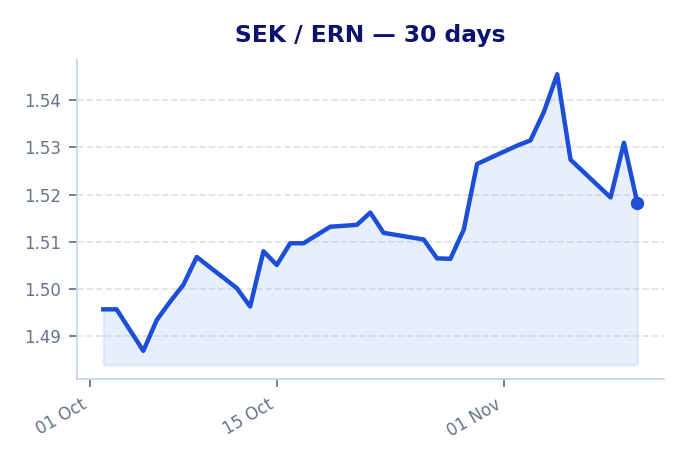
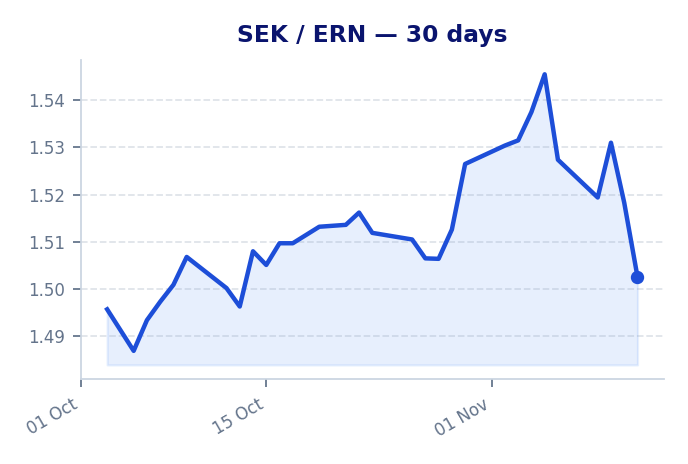
Add files via upload

diff --git a/index.html b/index.html
@@ -168,7 +168,8 @@ body {
     color: #ffffff;
 }
 
-.home-page .corridor-nav a:first-child,
+/* Only the corridor page you are actually on is highlighted. The homepage is
+   not a corridor, so none of the three tabs is active there. */
 .corridor-nav a.active-corridor {
     background: var(--brand-blue);
     color: #ffffff;
@@ -938,22 +939,22 @@ tr:hover {
 
             <div class="summary-item">
                 <div class="summary-label">SEK</div>
-                <div class="summary-value">1.5183</div>
+                <div class="summary-value">1.5026</div>
             </div>
 
             <div class="summary-item">
                 <div class="summary-label">NOK</div>
-                <div class="summary-value">1.5784</div>
+                <div class="summary-value">1.5671</div>
             </div>
 
             <div class="summary-item">
                 <div class="summary-label">DKK</div>
-                <div class="summary-value">2.2389</div>
+                <div class="summary-value">2.2232</div>
             </div>
 
             </div>
             <div class="mid-market-meta">
-                <div><span style="font-weight:600" data-i18n="last-updated">Last Updated:</span> 2026-11-11 07:13</div>
+                <div><span style="font-weight:600" data-i18n="last-updated">Last Updated:</span> 2026-11-12 07:09</div>
                 <div style="font-size:0.8rem" data-i18n="mid-market-note">Official mid-market rates collected daily. Actual transfer payout rates shown below.</div>
             </div>
         </div>
@@ -973,11 +974,11 @@ tr:hover {
             <div class="insight-boxes">
                 <div class="bestbox">
                     <span class="icon">🏆</span> 
-                    <span data-i18n="top-pick">Top Pick: <b>Ria</b> delivers <b>15 000 ERN</b></span>
+                    <span data-i18n="top-pick">Top Pick: <b>Ria</b> delivers <b>14 800 ERN</b></span>
                 </div>
                 <div class="gainbox">
                     <span class="icon">💡</span> 
-                    <span data-i18n="smart-move">Smart Move: You get <b>+471 ERN</b> more with <b>Ria</b> vs <b>Juba Express</b></span>
+                    <span data-i18n="smart-move">Smart Move: You get <b>+426 ERN</b> more with <b>Ria</b> vs <b>Juba Express</b></span>
                 </div>
             </div>
             
@@ -1000,11 +1001,11 @@ tr:hover {
 <td class="left">
     <div class="company-name">Ria</div>
 </td>
-<td class="right font-numeric">1.5000</td>
+<td class="right font-numeric">1.4800</td>
 <td class="right font-numeric">0,00</td>
-<td class="right nowrap font-numeric highlight-ern">15 000</td>
+<td class="right nowrap font-numeric highlight-ern">14 800</td>
 <td class="right nowrap font-numeric">-</td>
-<td class="right font-numeric markup-good">1.21%</td>
+<td class="right font-numeric markup-good">1.50%</td>
 <td class="right font-numeric hide-mobile"><span class="badge best-badge">Best</span></td>
 </tr>
 
@@ -1012,11 +1013,11 @@ tr:hover {
 <td class="left">
     <div class="company-name">Transfer Galaxy</div>
 </td>
-<td class="right font-numeric">1.4854</td>
+<td class="right font-numeric">1.4691</td>
 <td class="right font-numeric">0,00</td>
-<td class="right nowrap font-numeric highlight-ern">14 854</td>
-<td class="right nowrap font-numeric"><span class="loss-text">-146 ERN</span></td>
-<td class="right font-numeric markup-cell">2.17%</td>
+<td class="right nowrap font-numeric highlight-ern">14 691</td>
+<td class="right nowrap font-numeric"><span class="loss-text">-109 ERN</span></td>
+<td class="right font-numeric markup-cell">2.23%</td>
 <td class="right font-numeric hide-mobile"><span class="badge rank-badge">#2</span></td>
 </tr>
 
@@ -1024,11 +1025,11 @@ tr:hover {
 <td class="left">
     <div class="company-name">Western Union</div>
 </td>
-<td class="right font-numeric">1.4788</td>
+<td class="right font-numeric">1.4650</td>
 <td class="right font-numeric">0,00</td>
-<td class="right nowrap font-numeric highlight-ern">14 787</td>
-<td class="right nowrap font-numeric"><span class="loss-text">-212 ERN</span></td>
-<td class="right font-numeric markup-cell">2.60%</td>
+<td class="right nowrap font-numeric highlight-ern">14 650</td>
+<td class="right nowrap font-numeric"><span class="loss-text">-150 ERN</span></td>
+<td class="right font-numeric markup-cell">2.50%</td>
 <td class="right font-numeric hide-mobile"><span class="badge rank-badge">#3</span></td>
 </tr>
 
@@ -1036,11 +1037,11 @@ tr:hover {
 <td class="left">
     <div class="company-name">Remitly</div>
 </td>
-<td class="right font-numeric">1.4785</td>
+<td class="right font-numeric">1.4624</td>
 <td class="right font-numeric">0,00</td>
-<td class="right nowrap font-numeric highlight-ern">14 785</td>
-<td class="right nowrap font-numeric"><span class="loss-text">-215 ERN</span></td>
-<td class="right font-numeric markup-cell">2.62%</td>
+<td class="right nowrap font-numeric highlight-ern">14 624</td>
+<td class="right nowrap font-numeric"><span class="loss-text">-176 ERN</span></td>
+<td class="right font-numeric markup-cell">2.68%</td>
 <td class="right font-numeric hide-mobile"><span class="badge rank-badge">#4</span></td>
 </tr>
 
@@ -1048,11 +1049,11 @@ tr:hover {
 <td class="left">
     <div class="company-name">Dahabshiil</div>
 </td>
-<td class="right font-numeric">1.4623</td>
+<td class="right font-numeric">1.4475</td>
 <td class="right font-numeric">0,00</td>
-<td class="right nowrap font-numeric highlight-ern">14 623</td>
-<td class="right nowrap font-numeric"><span class="loss-text">-377 ERN</span></td>
-<td class="right font-numeric markup-cell">3.69%</td>
+<td class="right nowrap font-numeric highlight-ern">14 475</td>
+<td class="right nowrap font-numeric"><span class="loss-text">-325 ERN</span></td>
+<td class="right font-numeric markup-cell">3.67%</td>
 <td class="right font-numeric hide-mobile"><span class="badge rank-badge">#5</span></td>
 </tr>
 
@@ -1060,11 +1061,11 @@ tr:hover {
 <td class="left">
     <div class="company-name">Juba Express</div>
 </td>
-<td class="right font-numeric">1.4529</td>
+<td class="right font-numeric">1.4374</td>
 <td class="right font-numeric">0,00</td>
-<td class="right nowrap font-numeric highlight-ern">14 529</td>
-<td class="right nowrap font-numeric"><span class="loss-text">-471 ERN</span></td>
-<td class="right font-numeric markup-cell">4.31%</td>
+<td class="right nowrap font-numeric highlight-ern">14 374</td>
+<td class="right nowrap font-numeric"><span class="loss-text">-426 ERN</span></td>
+<td class="right font-numeric markup-cell">4.34%</td>
 <td class="right font-numeric hide-mobile"><span class="badge rank-badge">#6</span></td>
 </tr>
 
@@ -1086,11 +1087,11 @@ tr:hover {
             <div class="insight-boxes">
                 <div class="bestbox">
                     <span class="icon">🏆</span> 
-                    <span data-i18n="top-pick">Top Pick: <b>Transfer Galaxy</b> delivers <b>15 416 ERN</b></span>
+                    <span data-i18n="top-pick">Top Pick: <b>Transfer Galaxy</b> delivers <b>15 321 ERN</b></span>
                 </div>
                 <div class="gainbox">
                     <span class="icon">💡</span> 
-                    <span data-i18n="smart-move">Smart Move: You get <b>+690 ERN</b> more with <b>Transfer Galaxy</b> vs <b>Dahabshiil</b></span>
+                    <span data-i18n="smart-move">Smart Move: You get <b>+695 ERN</b> more with <b>Transfer Galaxy</b> vs <b>Dahabshiil</b></span>
                 </div>
             </div>
             
@@ -1113,11 +1114,11 @@ tr:hover {
 <td class="left">
     <div class="company-name">Transfer Galaxy</div>
 </td>
-<td class="right font-numeric">1.5416</td>
+<td class="right font-numeric">1.5321</td>
 <td class="right font-numeric">0,00</td>
-<td class="right nowrap font-numeric highlight-ern">15 416</td>
+<td class="right nowrap font-numeric highlight-ern">15 321</td>
 <td class="right nowrap font-numeric">-</td>
-<td class="right font-numeric markup-cell">2.33%</td>
+<td class="right font-numeric markup-cell">2.23%</td>
 <td class="right font-numeric hide-mobile"><span class="badge best-badge">Best</span></td>
 </tr>
 
@@ -1125,11 +1126,11 @@ tr:hover {
 <td class="left">
     <div class="company-name">Ria Money Transfer</div>
 </td>
-<td class="right font-numeric">1.5400</td>
+<td class="right font-numeric">1.5300</td>
 <td class="right font-numeric">0,00</td>
-<td class="right nowrap font-numeric highlight-ern">15 400</td>
-<td class="right nowrap font-numeric"><span class="loss-text">-16 ERN</span></td>
-<td class="right font-numeric markup-cell">2.43%</td>
+<td class="right nowrap font-numeric highlight-ern">15 300</td>
+<td class="right nowrap font-numeric"><span class="loss-text">-21 ERN</span></td>
+<td class="right font-numeric markup-cell">2.37%</td>
 <td class="right font-numeric hide-mobile"><span class="badge rank-badge">#2</span></td>
 </tr>
 
@@ -1137,11 +1138,11 @@ tr:hover {
 <td class="left">
     <div class="company-name">Remitly</div>
 </td>
-<td class="right font-numeric">1.5313</td>
+<td class="right font-numeric">1.5208</td>
 <td class="right font-numeric">0,00</td>
-<td class="right nowrap font-numeric highlight-ern">15 313</td>
-<td class="right nowrap font-numeric"><span class="loss-text">-102 ERN</span></td>
-<td class="right font-numeric markup-cell">2.98%</td>
+<td class="right nowrap font-numeric highlight-ern">15 208</td>
+<td class="right nowrap font-numeric"><span class="loss-text">-113 ERN</span></td>
+<td class="right font-numeric markup-cell">2.95%</td>
 <td class="right font-numeric hide-mobile"><span class="badge rank-badge">#3</span></td>
 </tr>
 
@@ -1149,10 +1150,10 @@ tr:hover {
 <td class="left">
     <div class="company-name">Juba Express</div>
 </td>
-<td class="right font-numeric">1.5097</td>
+<td class="right font-numeric">1.4990</td>
 <td class="right font-numeric">0,00</td>
-<td class="right nowrap font-numeric highlight-ern">15 097</td>
-<td class="right nowrap font-numeric"><span class="loss-text">-319 ERN</span></td>
+<td class="right nowrap font-numeric highlight-ern">14 990</td>
+<td class="right nowrap font-numeric"><span class="loss-text">-330 ERN</span></td>
 <td class="right font-numeric markup-cell">4.35%</td>
 <td class="right font-numeric hide-mobile"><span class="badge rank-badge">#4</span></td>
 </tr>
@@ -1161,11 +1162,11 @@ tr:hover {
 <td class="left">
     <div class="company-name">Hidmona Money Transfer</div>
 </td>
-<td class="right font-numeric">1.4987</td>
+<td class="right font-numeric">1.4901</td>
 <td class="right font-numeric">0,00</td>
-<td class="right nowrap font-numeric highlight-ern">14 987</td>
-<td class="right nowrap font-numeric"><span class="loss-text">-429 ERN</span></td>
-<td class="right font-numeric markup-cell">5.05%</td>
+<td class="right nowrap font-numeric highlight-ern">14 901</td>
+<td class="right nowrap font-numeric"><span class="loss-text">-420 ERN</span></td>
+<td class="right font-numeric markup-cell">4.91%</td>
 <td class="right font-numeric hide-mobile"><span class="badge rank-badge">#5</span></td>
 </tr>
 
@@ -1173,11 +1174,11 @@ tr:hover {
 <td class="left">
     <div class="company-name">Dahabshiil</div>
 </td>
-<td class="right font-numeric">1.4726</td>
+<td class="right font-numeric">1.4626</td>
 <td class="right font-numeric">0,00</td>
-<td class="right nowrap font-numeric highlight-ern">14 726</td>
-<td class="right nowrap font-numeric"><span class="loss-text">-690 ERN</span></td>
-<td class="right font-numeric markup-cell">6.70%</td>
+<td class="right nowrap font-numeric highlight-ern">14 625</td>
+<td class="right nowrap font-numeric"><span class="loss-text">-695 ERN</span></td>
+<td class="right font-numeric markup-cell">6.67%</td>
 <td class="right font-numeric hide-mobile"><span class="badge rank-badge">#6</span></td>
 </tr>
 
@@ -1199,11 +1200,11 @@ tr:hover {
             <div class="insight-boxes">
                 <div class="bestbox">
                     <span class="icon">🏆</span> 
-                    <span data-i18n="top-pick">Top Pick: <b>Western Union</b> delivers <b>22 404 ERN</b></span>
+                    <span data-i18n="top-pick">Top Pick: <b>Western Union</b> delivers <b>22 241 ERN</b></span>
                 </div>
                 <div class="gainbox">
                     <span class="icon">💡</span> 
-                    <span data-i18n="smart-move">Smart Move: You get <b>+987 ERN</b> more with <b>Western Union</b> vs <b>Juba Express</b></span>
+                    <span data-i18n="smart-move">Smart Move: You get <b>+975 ERN</b> more with <b>Western Union</b> vs <b>Juba Express</b></span>
                 </div>
             </div>
             
@@ -1226,11 +1227,11 @@ tr:hover {
 <td class="left">
     <div class="company-name">Western Union</div>
 </td>
-<td class="right font-numeric">2.2404</td>
+<td class="right font-numeric">2.2241</td>
 <td class="right font-numeric">0,00</td>
-<td class="right nowrap font-numeric highlight-ern">22 404</td>
+<td class="right nowrap font-numeric highlight-ern">22 241</td>
 <td class="right nowrap font-numeric">-</td>
-<td class="right font-numeric markup-good">-0.07%</td>
+<td class="right font-numeric markup-good">-0.04%</td>
 <td class="right font-numeric hide-mobile"><span class="badge best-badge">Best</span></td>
 </tr>
 
@@ -1238,11 +1239,11 @@ tr:hover {
 <td class="left">
     <div class="company-name">Ria Money Transfer</div>
 </td>
-<td class="right font-numeric">2.2100</td>
+<td class="right font-numeric">2.2000</td>
 <td class="right font-numeric">0,00</td>
-<td class="right nowrap font-numeric highlight-ern">22 100</td>
-<td class="right nowrap font-numeric"><span class="loss-text">-304 ERN</span></td>
-<td class="right font-numeric markup-good">1.29%</td>
+<td class="right nowrap font-numeric highlight-ern">22 000</td>
+<td class="right nowrap font-numeric"><span class="loss-text">-241 ERN</span></td>
+<td class="right font-numeric markup-good">1.04%</td>
 <td class="right font-numeric hide-mobile"><span class="badge rank-badge">#2</span></td>
 </tr>
 
@@ -1250,11 +1251,11 @@ tr:hover {
 <td class="left">
     <div class="company-name">Hidmona Money Transfer</div>
 </td>
-<td class="right font-numeric">2.1976</td>
+<td class="right font-numeric">2.1828</td>
 <td class="right font-numeric">0,00</td>
-<td class="right nowrap font-numeric highlight-ern">21 976</td>
-<td class="right nowrap font-numeric"><span class="loss-text">-428 ERN</span></td>
-<td class="right font-numeric markup-good">1.84%</td>
+<td class="right nowrap font-numeric highlight-ern">21 828</td>
+<td class="right nowrap font-numeric"><span class="loss-text">-413 ERN</span></td>
+<td class="right font-numeric markup-good">1.82%</td>
 <td class="right font-numeric hide-mobile"><span class="badge rank-badge">#3</span></td>
 </tr>
 
@@ -1262,11 +1263,11 @@ tr:hover {
 <td class="left">
     <div class="company-name">Transfer Galaxy</div>
 </td>
-<td class="right font-numeric">2.1899</td>
+<td class="right font-numeric">2.1730</td>
 <td class="right font-numeric">0,00</td>
-<td class="right nowrap font-numeric highlight-ern">21 899</td>
-<td class="right nowrap font-numeric"><span class="loss-text">-505 ERN</span></td>
-<td class="right font-numeric markup-cell">2.19%</td>
+<td class="right nowrap font-numeric highlight-ern">21 730</td>
+<td class="right nowrap font-numeric"><span class="loss-text">-511 ERN</span></td>
+<td class="right font-numeric markup-cell">2.26%</td>
 <td class="right font-numeric hide-mobile"><span class="badge rank-badge">#4</span></td>
 </tr>
 
@@ -1274,11 +1275,11 @@ tr:hover {
 <td class="left">
     <div class="company-name">Remitly</div>
 </td>
-<td class="right font-numeric">2.1888</td>
+<td class="right font-numeric">2.1724</td>
 <td class="right font-numeric">0,00</td>
-<td class="right nowrap font-numeric highlight-ern">21 888</td>
-<td class="right nowrap font-numeric"><span class="loss-text">-516 ERN</span></td>
-<td class="right font-numeric markup-cell">2.24%</td>
+<td class="right nowrap font-numeric highlight-ern">21 724</td>
+<td class="right nowrap font-numeric"><span class="loss-text">-517 ERN</span></td>
+<td class="right font-numeric markup-cell">2.28%</td>
 <td class="right font-numeric hide-mobile"><span class="badge rank-badge">#5</span></td>
 </tr>
 
@@ -1286,11 +1287,11 @@ tr:hover {
 <td class="left">
     <div class="company-name">Juba Express</div>
 </td>
-<td class="right font-numeric">2.1417</td>
+<td class="right font-numeric">2.1266</td>
 <td class="right font-numeric">0,00</td>
-<td class="right nowrap font-numeric highlight-ern">21 417</td>
-<td class="right nowrap font-numeric"><span class="loss-text">-987 ERN</span></td>
-<td class="right font-numeric markup-cell">4.34%</td>
+<td class="right nowrap font-numeric highlight-ern">21 266</td>
+<td class="right nowrap font-numeric"><span class="loss-text">-975 ERN</span></td>
+<td class="right font-numeric markup-cell">4.35%</td>
 <td class="right font-numeric hide-mobile"><span class="badge rank-badge">#6</span></td>
 </tr>
 
@@ -1308,7 +1309,7 @@ tr:hover {
             <div class="chart-card">
                 <div class="chart-header">
                     <img src="https://flagcdn.com/w40/se.png" class="flag-sm" alt="Sweden" width="24" height="16" loading="lazy" decoding="async"> <span>SEK / ERN</span>
-                    <span class="trend-badge up">▲ 1.5%</span>
+                    <span class="trend-badge up">▲ 0.5%</span>
                 </div>
                 <img src="sek_chart.png" class="chart-img" alt="SEK to ERN exchange-rate trend over the last 30 days" loading="lazy" decoding="async" width="688" height="464">
             </div>
@@ -1316,7 +1317,7 @@ tr:hover {
             <div class="chart-card">
                 <div class="chart-header">
                     <img src="https://flagcdn.com/w40/no.png" class="flag-sm" alt="Norway" width="24" height="16" loading="lazy" decoding="async"> <span>NOK / ERN</span>
-                    <span class="trend-badge up">▲ 1.2%</span>
+                    <span class="trend-badge up">▲ 0.5%</span>
                 </div>
                 <img src="nok_chart.png" class="chart-img" alt="NOK to ERN exchange-rate trend over the last 30 days" loading="lazy" decoding="async" width="688" height="464">
             </div>
@@ -1324,7 +1325,7 @@ tr:hover {
             <div class="chart-card">
                 <div class="chart-header">
                     <img src="https://flagcdn.com/w40/dk.png" class="flag-sm" alt="Denmark" width="24" height="16" loading="lazy" decoding="async"> <span>DKK / ERN</span>
-                    <span class="trend-badge down">▼ 0.8%</span>
+                    <span class="trend-badge down">▼ 1.5%</span>
                 </div>
                 <img src="dkk_chart.png" class="chart-img" alt="DKK to ERN exchange-rate trend over the last 30 days" loading="lazy" decoding="async" width="688" height="464">
             </div>
@@ -1388,7 +1389,7 @@ tr:hover {
         "calculator-note": "እቲ ዝበለጸ ክፍሊት ንዝኣተኻዮ መጠን ብተመሳሳሊ ሕሳብ ዋጋን ክፍሊትን ከም ሰንጠረዥ ይደጋገም።"
     };
 
-    const calculatorData = {"SEK": [{"provider": "Ria", "rate": 1.5, "total_fee": 0.0}, {"provider": "Transfer Galaxy", "rate": 1.4854, "total_fee": 0.0}, {"provider": "Western Union", "rate": 1.4788, "total_fee": 0.0}, {"provider": "Remitly", "rate": 1.4785, "total_fee": 0.0}, {"provider": "Dahabshiil", "rate": 1.4623, "total_fee": 0.0}, {"provider": "Juba Express", "rate": 1.4529, "total_fee": 0.0}], "NOK": [{"provider": "Transfer Galaxy", "rate": 1.5416, "total_fee": 0.0}, {"provider": "Ria Money Transfer", "rate": 1.54, "total_fee": 0.0}, {"provider": "Remitly", "rate": 1.5313, "total_fee": 0.0}, {"provider": "Juba Express", "rate": 1.5097, "total_fee": 0.0}, {"provider": "Hidmona Money Transfer", "rate": 1.4987, "total_fee": 0.0}, {"provider": "Dahabshiil", "rate": 1.4726, "total_fee": 0.0}], "DKK": [{"provider": "Western Union", "rate": 2.2404, "total_fee": 0.0}, {"provider": "Ria Money Transfer", "rate": 2.21, "total_fee": 0.0}, {"provider": "Hidmona Money Transfer", "rate": 2.1976, "total_fee": 0.0}, {"provider": "Transfer Galaxy", "rate": 2.1899, "total_fee": 0.0}, {"provider": "Remitly", "rate": 2.1888, "total_fee": 0.0}, {"provider": "Juba Express", "rate": 2.1417, "total_fee": 0.0}]};
+    const calculatorData = {"SEK": [{"provider": "Ria", "rate": 1.48, "total_fee": 0.0}, {"provider": "Transfer Galaxy", "rate": 1.4691, "total_fee": 0.0}, {"provider": "Western Union", "rate": 1.465, "total_fee": 0.0}, {"provider": "Remitly", "rate": 1.4624, "total_fee": 0.0}, {"provider": "Dahabshiil", "rate": 1.4475, "total_fee": 0.0}, {"provider": "Juba Express", "rate": 1.4374, "total_fee": 0.0}], "NOK": [{"provider": "Transfer Galaxy", "rate": 1.5321, "total_fee": 0.0}, {"provider": "Ria Money Transfer", "rate": 1.53, "total_fee": 0.0}, {"provider": "Remitly", "rate": 1.5208, "total_fee": 0.0}, {"provider": "Juba Express", "rate": 1.499, "total_fee": 0.0}, {"provider": "Hidmona Money Transfer", "rate": 1.4901, "total_fee": 0.0}, {"provider": "Dahabshiil", "rate": 1.4626, "total_fee": 0.0}], "DKK": [{"provider": "Western Union", "rate": 2.2241, "total_fee": 0.0}, {"provider": "Ria Money Transfer", "rate": 2.2, "total_fee": 0.0}, {"provider": "Hidmona Money Transfer", "rate": 2.1828, "total_fee": 0.0}, {"provider": "Transfer Galaxy", "rate": 2.173, "total_fee": 0.0}, {"provider": "Remitly", "rate": 2.1724, "total_fee": 0.0}, {"provider": "Juba Express", "rate": 2.1266, "total_fee": 0.0}]};
     const labels = [...document.querySelectorAll('[data-i18n]')];
     const english = new Map(labels.map(el => [el, el.innerHTML]));
 
